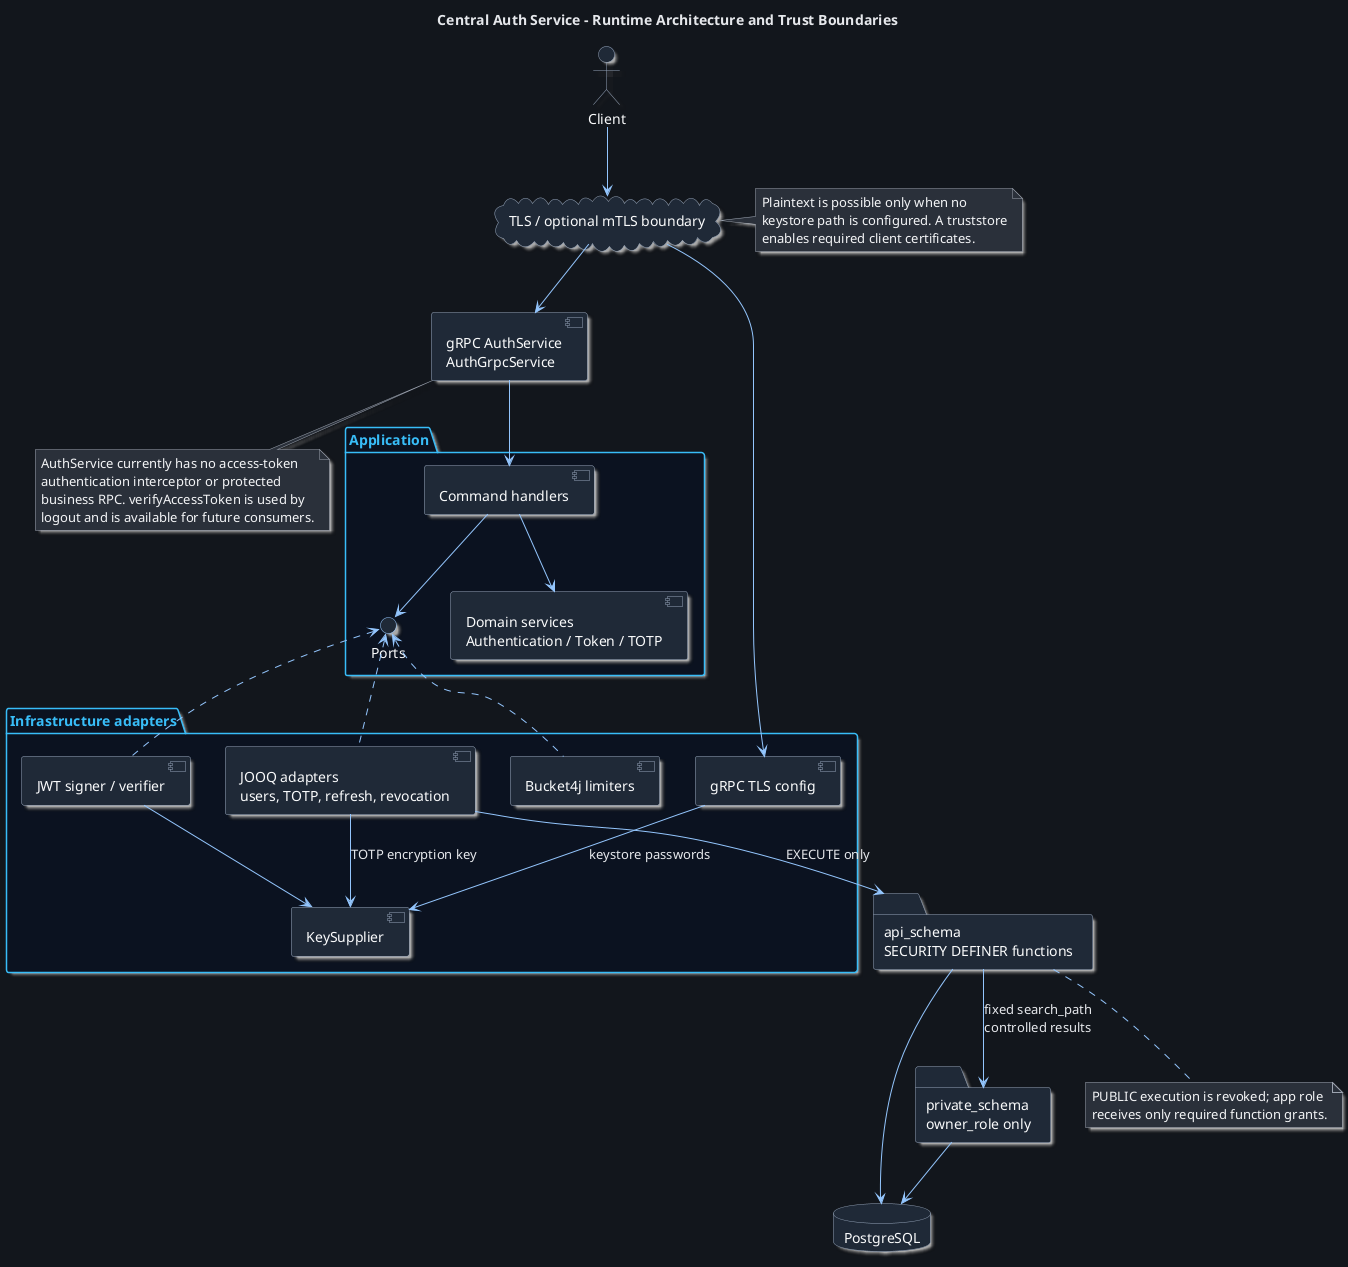
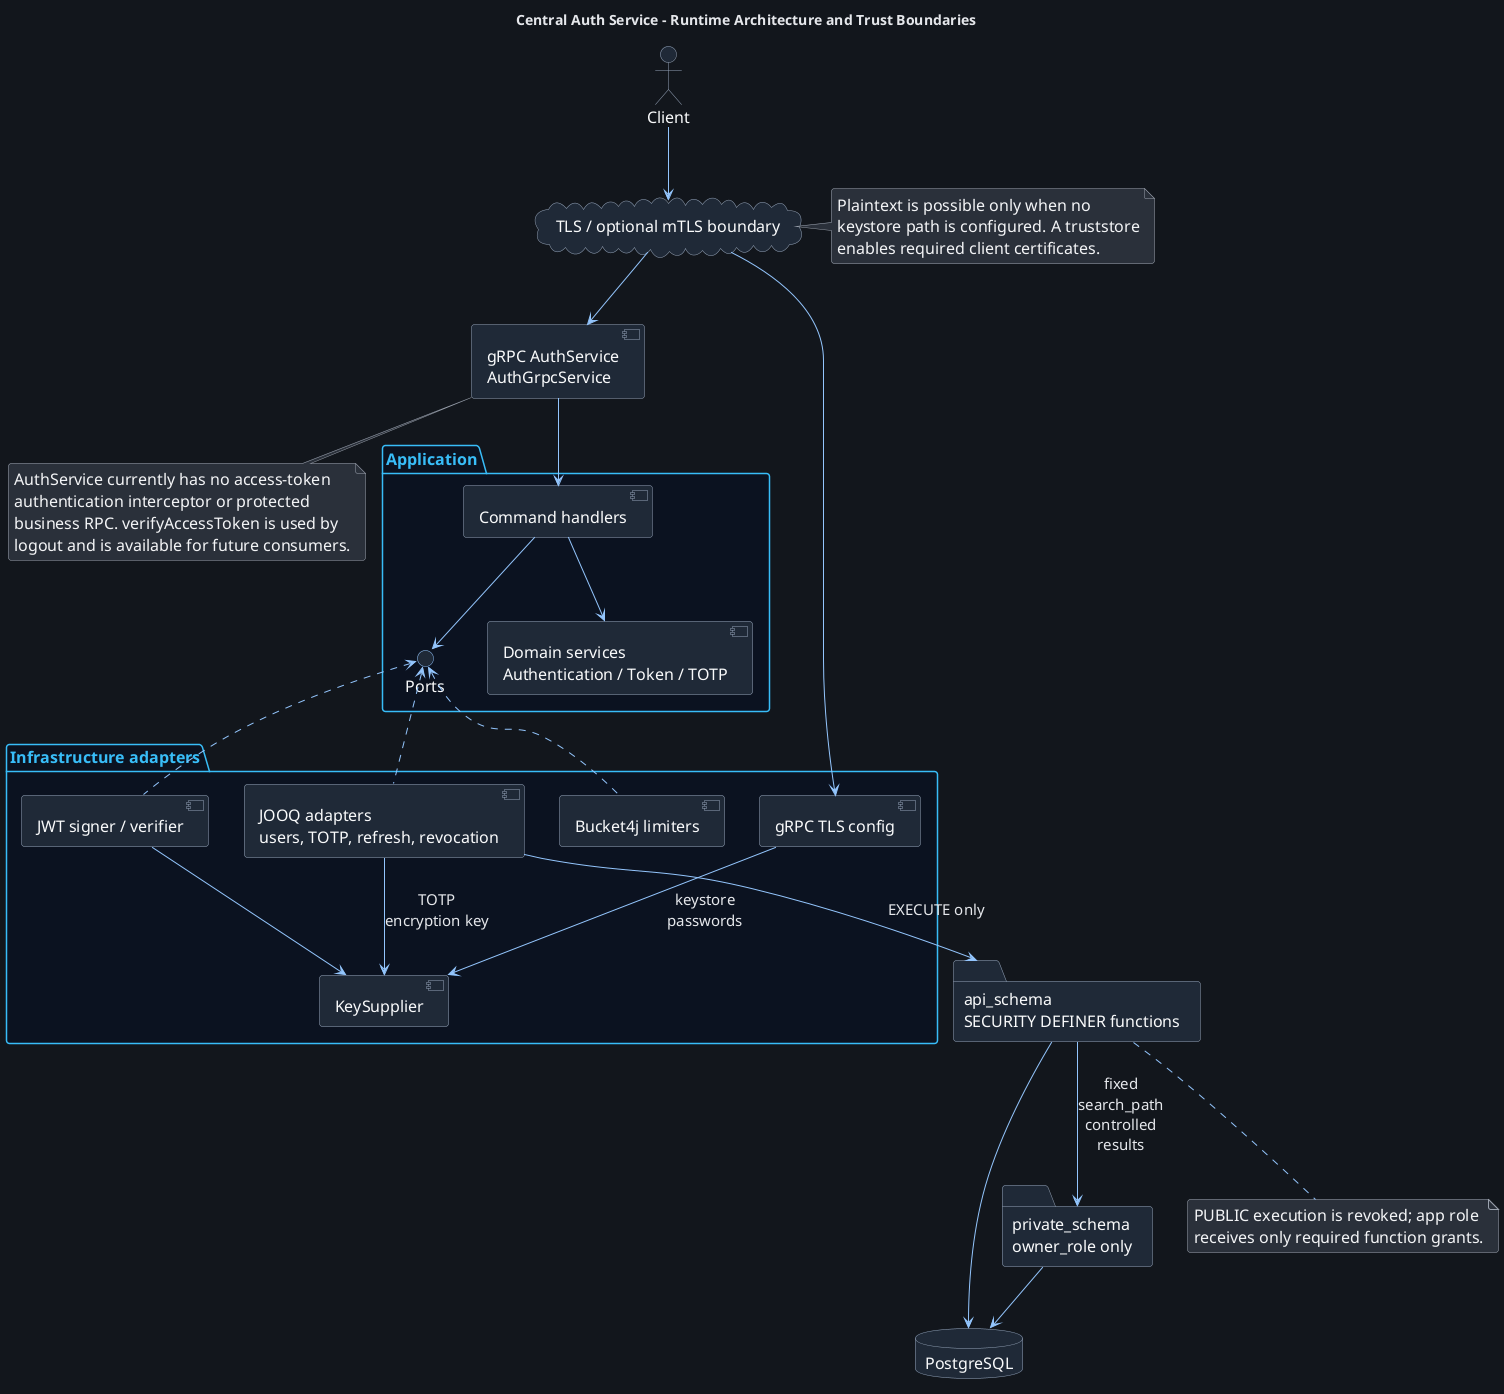
docs: improve diagram accessibility

Changed region(s): [[0.0, 0.0, 1.0, 1.0], [0.1869, 0.6772, 0.2181, 0.708]]

diff --git a/docs/architecture/ARCHITECTURE_DIAGRAMS.md b/docs/architecture/ARCHITECTURE_DIAGRAMS.md
@@ -1,20 +1,20 @@
 # Architecture Diagrams
 
-This index describes diagrams matching the implementation as of 2026-08-22. Behavior is defined by the Java application, `src/main/proto/auth.proto`, Flyway migrations through `V1_4_8`, and the tests. Current status is maintained in [PROJECT_STATUS_AND_COMPLETION_PLAN.md](../project/PROJECT_STATUS_AND_COMPLETION_PLAN.md).
+This index describes diagrams matching the implementation as of 2026-08-23. Behavior is defined by the Java application, `src/main/proto/auth.proto`, Flyway migrations through `V1_5_1`, and the tests. Current status is maintained in [PROJECT_STATUS_AND_COMPLETION_PLAN.md](../project/PROJECT_STATUS_AND_COMPLETION_PLAN.md).
 
 ## Current diagrams
 
 | Diagram | Purpose | Implementation sources |
 | --- | --- | --- |
-| [Runtime_Architecture.puml](../../design/architecture/Runtime_Architecture.puml) | gRPC runtime, hexagonal ports, adapters, PostgreSQL schemas, TLS/mTLS boundaries, and the current absence of an access-token interceptor | [Main.java](../../src/main/java/com/oodesigns/cas/Main.java), [GrpcTlsConfigurer.java](../../src/main/java/com/oodesigns/cas/infrastructure/grpc/GrpcTlsConfigurer.java), [Ports.java](../../src/main/java/com/oodesigns/cas/domain/service/Ports.java) |
-| [LoginFlow_SequenceDiagram.puml](../../design/authentication/LoginFlow_SequenceDiagram.puml) | Login ordering, three-key rate limiting, MFA setup/error, 2FA challenge, password reset, and token issuance | [LoginCommandHandler.java](../../src/main/java/com/oodesigns/cas/application/command/LoginCommandHandler.java), [auth.proto](../../src/main/proto/auth.proto) |
-| [0 - Request Guardrails & Rate Limiting (Multi-Key).puml](../../design/authentication/login/0%20-%20Request%20Guardrails%20%26%20Rate%20Limiting%20%28Multi-Key%29.puml) | IP, username, and IP+username login buckets | [LoginRateLimiter.java](../../src/main/java/com/oodesigns/cas/infrastructure/adapter/LoginRateLimiter.java) |
-| [2 - MFA Policy & Challenge.puml](../../design/authentication/login/2%20-%20MFA%20Policy%20%26%20Challenge.puml) | MFA policy routing and terminal gRPC responses | [LoginCommandHandler.java](../../src/main/java/com/oodesigns/cas/application/command/LoginCommandHandler.java) |
-| [Perform MFA challenge.puml](../../design/authentication/login/mfa/Perform%20MFA%20challenge.puml) | Per-user limiting, TOTP/backup-code verification, and full token issuance | [VerifyTotpCommandHandler.java](../../src/main/java/com/oodesigns/cas/application/command/VerifyTotpCommandHandler.java), [TotpRateLimiter.java](../../src/main/java/com/oodesigns/cas/infrastructure/adapter/TotpRateLimiter.java) |
-| [TOTP_Lifecycle.puml](../../design/authentication/TOTP_Lifecycle.puml) | Pending secret enrollment, activation, backup codes, verification, and disable cleanup | [SetupTotpCommandHandler.java](../../src/main/java/com/oodesigns/cas/application/command/SetupTotpCommandHandler.java), [EnableTotpCommandHandler.java](../../src/main/java/com/oodesigns/cas/application/command/EnableTotpCommandHandler.java), [DisableTotpCommandHandler.java](../../src/main/java/com/oodesigns/cas/application/command/DisableTotpCommandHandler.java) |
-| [Refresh_Token_Rotation.puml](../../design/authentication/Refresh_Token_Rotation.puml) | Atomic rotation and family revocation on reuse | [RefreshTokenCommandHandler.java](../../src/main/java/com/oodesigns/cas/application/command/RefreshTokenCommandHandler.java), [V1_4_6__add_refresh_token_api_functions.sql](../../.devcontainer/flyway/sql/V1_4_6__add_refresh_token_api_functions.sql) |
-| [Logout_Access_Token_Revocation.puml](../../design/authentication/Logout_Access_Token_Revocation.puml) | Logout persistence and JTI-based rejection contract; explicitly notes that no protected gRPC interceptor consumes access tokens yet | [LogoutCommandHandler.java](../../src/main/java/com/oodesigns/cas/application/command/LogoutCommandHandler.java), [JwtTokenVerifier.java](../../src/main/java/com/oodesigns/cas/infrastructure/adapter/JwtTokenVerifier.java), [V1_4_8__add_jwt_revocation_api_functions.sql](../../.devcontainer/flyway/sql/V1_4_8__add_jwt_revocation_api_functions.sql) |
-| [CAS User + Role Schema.puml](../../design/architecture/CAS%20User%20%2B%20Role%20Schema.puml) | Current ten-table authentication persistence model: users, authorization, TOTP, tokens, trusted clients, and audit data | [V1_0_2__create_tables.sql](../../.devcontainer/flyway/sql/V1_0_2__create_tables.sql) |
+| [Runtime architecture PNG](../../design/architecture/RuntimeArchitecture.png) ([source](../../design/architecture/Runtime_Architecture.puml)) | gRPC runtime, hexagonal ports, adapters, PostgreSQL schemas, TLS/mTLS boundaries, and the current absence of an access-token interceptor | [Main.java](../../src/main/java/com/oodesigns/cas/Main.java), [GrpcTlsConfigurer.java](../../src/main/java/com/oodesigns/cas/infrastructure/grpc/GrpcTlsConfigurer.java), [Ports.java](../../src/main/java/com/oodesigns/cas/domain/service/Ports.java) |
+| [Login flow PNG](../../design/authentication/LoginSequenceDiagram.png) ([source](../../design/authentication/LoginFlow_SequenceDiagram.puml)) | Login ordering, three-key rate limiting, MFA setup/error, 2FA challenge, password reset, and token issuance | [LoginCommandHandler.java](../../src/main/java/com/oodesigns/cas/application/command/LoginCommandHandler.java), [auth.proto](../../src/main/proto/auth.proto) |
+| [Request guardrails PNG](../../design/authentication/login/0%20-%20Request%20Guardrails%20%26%20Rate%20Limiting%20%28Multi-Key%29.png) ([source](../../design/authentication/login/0%20-%20Request%20Guardrails%20%26%20Rate%20Limiting%20%28Multi-Key%29.puml)) | IP, username, and IP+username login buckets | [LoginRateLimiter.java](../../src/main/java/com/oodesigns/cas/infrastructure/adapter/LoginRateLimiter.java) |
+| [MFA policy PNG](../../design/authentication/login/2%20-%20MFA%20Policy%20%26%20Challenge.png) ([source](../../design/authentication/login/2%20-%20MFA%20Policy%20%26%20Challenge.puml)) | MFA policy routing and terminal gRPC responses | [LoginCommandHandler.java](../../src/main/java/com/oodesigns/cas/application/command/LoginCommandHandler.java) |
+| [MFA challenge PNG](../../design/authentication/login/mfa/Perform%20MFA%20challenge.png) ([source](../../design/authentication/login/mfa/Perform%20MFA%20challenge.puml)) | Per-user limiting, TOTP/backup-code verification, and full token issuance | [VerifyTotpCommandHandler.java](../../src/main/java/com/oodesigns/cas/application/command/VerifyTotpCommandHandler.java), [TotpRateLimiter.java](../../src/main/java/com/oodesigns/cas/infrastructure/adapter/TotpRateLimiter.java) |
+| [TOTP setup](../../design/authentication/TotpEnrollmentSetup.png), [activation](../../design/authentication/TotpEnrollmentActivation.png), [login](../../design/authentication/TotpLoginChallenge.png), and [disable](../../design/authentication/TotpDisable.png) PNGs ([source](../../design/authentication/TOTP_Lifecycle.puml)) | Pending secret enrollment, activation, backup codes, verification, and disable cleanup | [SetupTotpCommandHandler.java](../../src/main/java/com/oodesigns/cas/application/command/SetupTotpCommandHandler.java), [EnableTotpCommandHandler.java](../../src/main/java/com/oodesigns/cas/application/command/EnableTotpCommandHandler.java), [DisableTotpCommandHandler.java](../../src/main/java/com/oodesigns/cas/application/command/DisableTotpCommandHandler.java) |
+| [Refresh-token rotation PNG](../../design/authentication/RefreshRotation.png) ([source](../../design/authentication/Refresh_Token_Rotation.puml)) | Atomic rotation and family revocation on reuse | [RefreshTokenCommandHandler.java](../../src/main/java/com/oodesigns/cas/application/command/RefreshTokenCommandHandler.java), [V1_4_6__add_refresh_token_api_functions.sql](../../.devcontainer/flyway/sql/V1_4_6__add_refresh_token_api_functions.sql) |
+| [Logout revocation PNG](../../design/authentication/LogoutRevocation.png) ([source](../../design/authentication/Logout_Access_Token_Revocation.puml)) | Logout persistence and JTI-based rejection contract; explicitly notes that no protected gRPC interceptor consumes access tokens yet | [LogoutCommandHandler.java](../../src/main/java/com/oodesigns/cas/application/command/LogoutCommandHandler.java), [JwtTokenVerifier.java](../../src/main/java/com/oodesigns/cas/infrastructure/adapter/JwtTokenVerifier.java), [V1_4_8__add_jwt_revocation_api_functions.sql](../../.devcontainer/flyway/sql/V1_4_8__add_jwt_revocation_api_functions.sql) |
+| [Authentication data model PNG](../../design/architecture/AuthenticationDataModel.png) ([source](../../design/architecture/CAS%20User%20%2B%20Role%20Schema.puml)) | Current authentication persistence model: users, authorization, TOTP, tokens, trusted clients, rate-limit state, and audit data | [V1_0_2__create_tables.sql](../../.devcontainer/flyway/sql/V1_0_2__create_tables.sql), [V1_5_1__add_distributed_login_rate_limits.sql](../../.devcontainer/flyway/sql/V1_5_1__add_distributed_login_rate_limits.sql) |
 
 ## Historical or superseded material
 
@@ -31,4 +31,4 @@ The old `design/history/login/3 - Post Authentication.puml` and `design/history/
 
 ## Validation
 
-All 12 PlantUML sources were compiled and rendered successfully with PlantUML 1.2025.4 on 2026-08-22. Generated PNGs are stored beside their sources. Local include paths, diagram index targets, and changed-file whitespace were also validated.
+All PlantUML sources were compiled and rendered successfully with PlantUML 1.2025.4 on 2026-08-23. Generated PNGs are stored beside their sources. Sequence diagrams use green success backgrounds and red failure backgrounds; the TOTP lifecycle is split into four focused PNGs to reduce line density. Local include paths, diagram index targets, and changed-file whitespace were also validated.

diff --git a/design/README.md b/design/README.md
@@ -6,19 +6,23 @@ PlantUML sources and their generated PNGs are grouped by purpose.
 
 ### Architecture
 
-- [Runtime architecture](architecture/Runtime_Architecture.puml)
-- [Authentication data model](architecture/CAS%20User%20%2B%20Role%20Schema.puml)
+- [Runtime architecture PNG](architecture/RuntimeArchitecture.png) ([source](architecture/Runtime_Architecture.puml))
+- [Authentication data model PNG](architecture/AuthenticationDataModel.png) ([source](architecture/CAS%20User%20%2B%20Role%20Schema.puml))
 
 ### Authentication
 
-- [Complete login and MFA branching](authentication/LoginFlow_SequenceDiagram.puml)
-- [TOTP lifecycle](authentication/TOTP_Lifecycle.puml)
-- [Refresh-token rotation](authentication/Refresh_Token_Rotation.puml)
-- [Logout and access-token revocation](authentication/Logout_Access_Token_Revocation.puml)
-- [Request guardrails and rate limiting](authentication/login/0%20-%20Request%20Guardrails%20%26%20Rate%20Limiting%20%28Multi-Key%29.puml)
-- [Credential verification](authentication/login/1%20-%20Credential%20Verification.puml)
-- [MFA policy and challenge](authentication/login/2%20-%20MFA%20Policy%20%26%20Challenge.puml)
-- [MFA challenge execution](authentication/login/mfa/Perform%20MFA%20challenge.puml)
+- [Complete login and MFA branching PNG](authentication/LoginSequenceDiagram.png) ([source](authentication/LoginFlow_SequenceDiagram.puml))
+- TOTP lifecycle ([source](authentication/TOTP_Lifecycle.puml)):
+  - [Enrollment setup PNG](authentication/TotpEnrollmentSetup.png)
+  - [Enrollment activation PNG](authentication/TotpEnrollmentActivation.png)
+  - [Login challenge PNG](authentication/TotpLoginChallenge.png)
+  - [Disable TOTP PNG](authentication/TotpDisable.png)
+- [Refresh-token rotation PNG](authentication/RefreshRotation.png) ([source](authentication/Refresh_Token_Rotation.puml))
+- [Logout and access-token revocation PNG](authentication/LogoutRevocation.png) ([source](authentication/Logout_Access_Token_Revocation.puml))
+- [Request guardrails and rate limiting PNG](authentication/login/0%20-%20Request%20Guardrails%20%26%20Rate%20Limiting%20%28Multi-Key%29.png) ([source](authentication/login/0%20-%20Request%20Guardrails%20%26%20Rate%20Limiting%20%28Multi-Key%29.puml))
+- [Credential verification PNG](authentication/login/1%20-%20Credential%20Verification.png) ([source](authentication/login/1%20-%20Credential%20Verification.puml))
+- [MFA policy and challenge PNG](authentication/login/2%20-%20MFA%20Policy%20%26%20Challenge.png) ([source](authentication/login/2%20-%20MFA%20Policy%20%26%20Challenge.puml))
+- [MFA challenge execution PNG](authentication/login/mfa/Perform%20MFA%20challenge.png) ([source](authentication/login/mfa/Perform%20MFA%20challenge.puml))
 
 ## Historical Diagrams
 
@@ -33,6 +37,8 @@ The files under `history/login/` describe superseded REST-era or proposed behavi
 
 All Central Auth Service diagrams include [themes/dark-theme.puml](themes/dark-theme.puml). Relative include paths must be adjusted when moving a source file.
 
+Sequence diagrams use green backgrounds for successful paths, red backgrounds for failures, and amber backgrounds for required follow-up actions. The shared theme increases text size, removes shadows, and wraps long messages for easier scanning.
+
 ## Rendering
 
 With a PlantUML jar available at `$PLANTUML_JAR`:
@@ -42,4 +48,4 @@ find design -type f -name '*.puml' ! -path 'design/themes/*' -print0 \
   | xargs -0 java -Djava.awt.headless=true -jar "$PLANTUML_JAR" -tpng
 ```
 
-Generated PNGs are stored beside their source files.
+Generated PNGs are stored beside their source files. A source containing multiple named `@startuml` blocks produces one PNG per name, as used by the four focused TOTP lifecycle diagrams.
